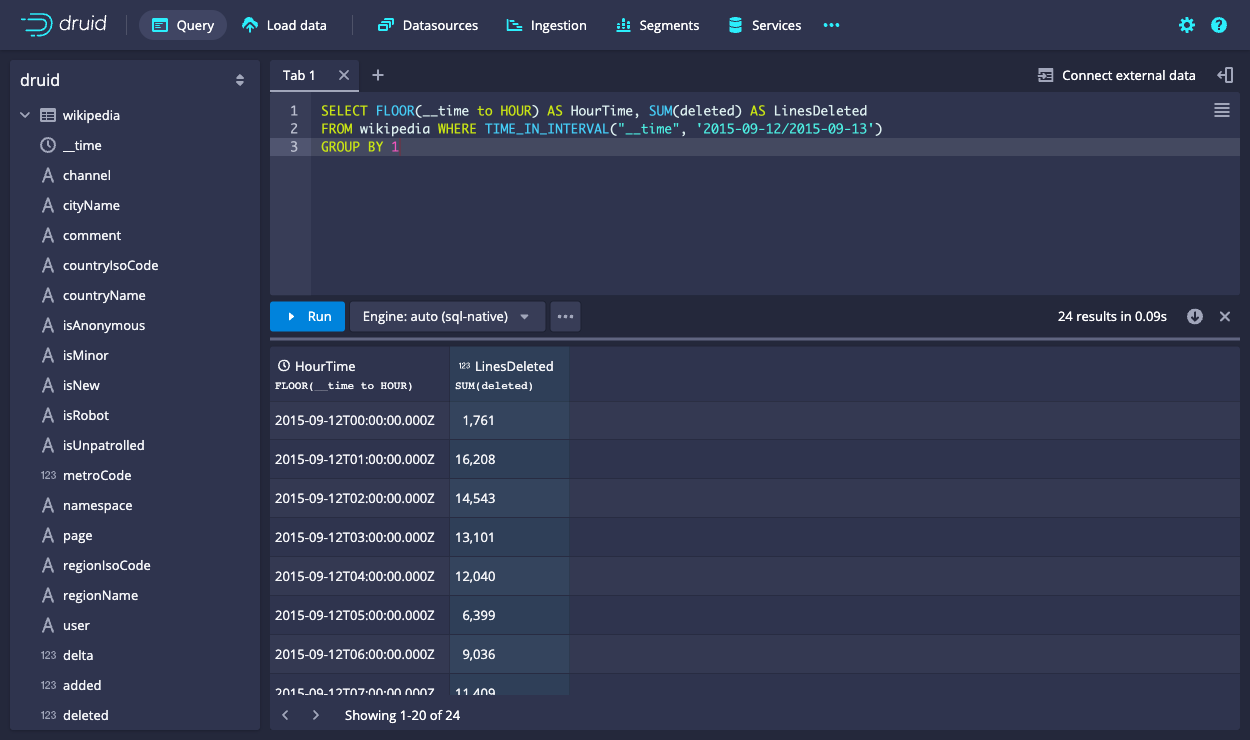
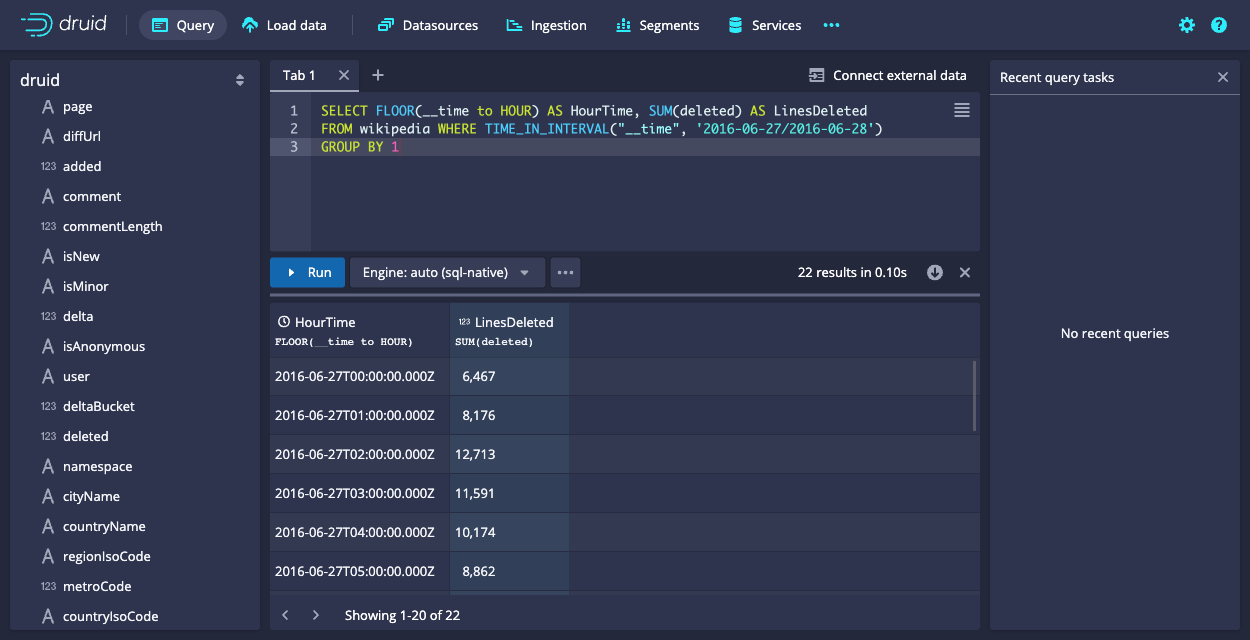
Fix querying sql (#14026)

diff --git a/docs/tutorials/tutorial-query.md b/docs/tutorials/tutorial-query.md
@@ -144,18 +144,19 @@ performance issues. For more information, see [Native queries](../querying/query
 9. Finally, click  `...`  and **Edit context** to see how you can add additional parameters controlling the execution of the query execution. In the field, enter query context options as JSON key-value pairs, as described in [Context flags](../querying/query-context.md).  
 
 That's it! We've built a simple query using some of the query builder features built into the web console. The following
-sections provide a few more example queries you can try. Also, see [Other ways to invoke SQL queries](#other-ways-to-invoke-sql-queries) to learn how
-to run Druid SQL from the command line or over HTTP. 
+sections provide a few more example queries you can try.
+
+See [Query SQL over HTTP](#query-sql-over-http) for an example of how to use the Druid SQL HTTP API. 
 
 ## More Druid SQL examples
 
-Here is a collection of queries to try out:
+Try the following queries to learn a few more Druid SQL tricks:
 
 ### Query over time
 
 ```sql
 SELECT FLOOR(__time to HOUR) AS HourTime, SUM(deleted) AS LinesDeleted
-FROM wikipedia WHERE TIME_IN_INTERVAL("__time", '2015-09-12/2015-09-13')
+FROM wikipedia WHERE TIME_IN_INTERVAL("__time", '2016-06-27/2016-06-28')
 GROUP BY 1
 ```
 
@@ -165,58 +166,21 @@ GROUP BY 1
 
 ```sql
 SELECT channel, page, SUM(added)
-FROM wikipedia WHERE TIME_IN_INTERVAL("__time", '2015-09-12/2015-09-13')
+FROM wikipedia WHERE TIME_IN_INTERVAL("__time", '2016-06-27/2016-06-28')
 GROUP BY channel, page
 ORDER BY SUM(added) DESC
 ```
 
 ![Query example](../assets/tutorial-query-07.png "Query example")
 
-
-## Other ways to invoke SQL queries
-
-### Query SQL via dsql
-
-For convenience, the Druid package includes a SQL command-line client, located at `bin/dsql` in the Druid package root.
-
-Let's now run `bin/dsql`; you should see the following prompt:
-
-```bash
-Welcome to dsql, the command-line client for Druid SQL.
-Type "\h" for help.
-dsql>
-```
-
-To submit the query, paste it to the `dsql` prompt and press enter:
-
-```bash
-dsql> SELECT page, COUNT(*) AS Edits FROM wikipedia WHERE TIME_IN_INTERVAL("__time", '2015-09-12/2015-09-13') GROUP BY page ORDER BY Edits DESC LIMIT 10;
-┌──────────────────────────────────────────────────────────┬───────┐
-│ page                                                     │ Edits │
-├──────────────────────────────────────────────────────────┼───────┤
-│ Wikipedia:Vandalismusmeldung                             │    33 │
-│ User:Cyde/List of candidates for speedy deletion/Subpage │    28 │
-│ Jeremy Corbyn                                            │    27 │
-│ Wikipedia:Administrators' noticeboard/Incidents          │    21 │
-│ Flavia Pennetta                                          │    20 │
-│ Total Drama Presents: The Ridonculous Race               │    18 │
-│ User talk:Dudeperson176123                               │    18 │
-│ Wikipédia:Le Bistro/12 septembre 2015                    │    18 │
-│ Wikipedia:In the news/Candidates                         │    17 │
-│ Wikipedia:Requests for page protection                   │    17 │
-└──────────────────────────────────────────────────────────┴───────┘
-Retrieved 10 rows in 0.06s.
-```
+## Query SQL over HTTP
 
 
-### Query SQL over HTTP
-
-
-You can submit native queries [directly to the Druid Broker over HTTP](../querying/sql-api.md#submit-a-query). The request body should be a JSON object, with the value for the key `query` containing text of the query:
+You can submit native queries [over HTTP](../querying/sql-api.md#submit-a-query). The request body is a JSON object in which the `query` field contains the text of the query:
 
 ```json
 {
-  "query": "SELECT page, COUNT(*) AS Edits FROM wikipedia WHERE TIME_IN_INTERVAL(\"__time\", '2015-09-12/2015-09-13') GROUP BY page ORDER BY Edits DESC LIMIT 10"
+  "query": "SELECT page, COUNT(*) AS Edits FROM wikipedia WHERE TIME_IN_INTERVAL(\"__time\", '2016-06-27/2016-06-28') GROUP BY page ORDER BY Edits DESC LIMIT 10"
 }
 ```
 
@@ -230,46 +194,46 @@ The following results should be returned:
 
 ```json
 [
-  {
-    "page": "Wikipedia:Vandalismusmeldung",
-    "Edits": 33
-  },
-  {
-    "page": "User:Cyde/List of candidates for speedy deletion/Subpage",
-    "Edits": 28
-  },
-  {
-    "page": "Jeremy Corbyn",
-    "Edits": 27
-  },
-  {
-    "page": "Wikipedia:Administrators' noticeboard/Incidents",
-    "Edits": 21
-  },
-  {
-    "page": "Flavia Pennetta",
-    "Edits": 20
-  },
-  {
-    "page": "Total Drama Presents: The Ridonculous Race",
-    "Edits": 18
-  },
-  {
-    "page": "User talk:Dudeperson176123",
-    "Edits": 18
-  },
-  {
-    "page": "Wikipédia:Le Bistro/12 septembre 2015",
-    "Edits": 18
-  },
-  {
-    "page": "Wikipedia:In the news/Candidates",
-    "Edits": 17
-  },
-  {
-    "page": "Wikipedia:Requests for page protection",
-    "Edits": 17
-  }
+    {
+        "page": "Copa América Centenario",
+        "Edits": 29
+    },
+    {
+        "page": "User:Cyde/List of candidates for speedy deletion/Subpage",
+        "Edits": 16
+    },
+    {
+        "page": "Wikipedia:Administrators' noticeboard/Incidents",
+        "Edits": 16
+    },
+    {
+        "page": "2016 Wimbledon Championships – Men's Singles",
+        "Edits": 15
+    },
+    {
+        "page": "Wikipedia:Administrator intervention against vandalism",
+        "Edits": 15
+    },
+    {
+        "page": "Wikipedia:Vandalismusmeldung",
+        "Edits": 15
+    },
+    {
+        "page": "The Winds of Winter (Game of Thrones)",
+        "Edits": 12
+    },
+    {
+        "page": "ولاية الجزائر",
+        "Edits": 12
+    },
+    {
+        "page": "Copa América",
+        "Edits": 10
+    },
+    {
+        "page": "Lionel Messi",
+        "Edits": 10
+    }
 ]
 ```
 
